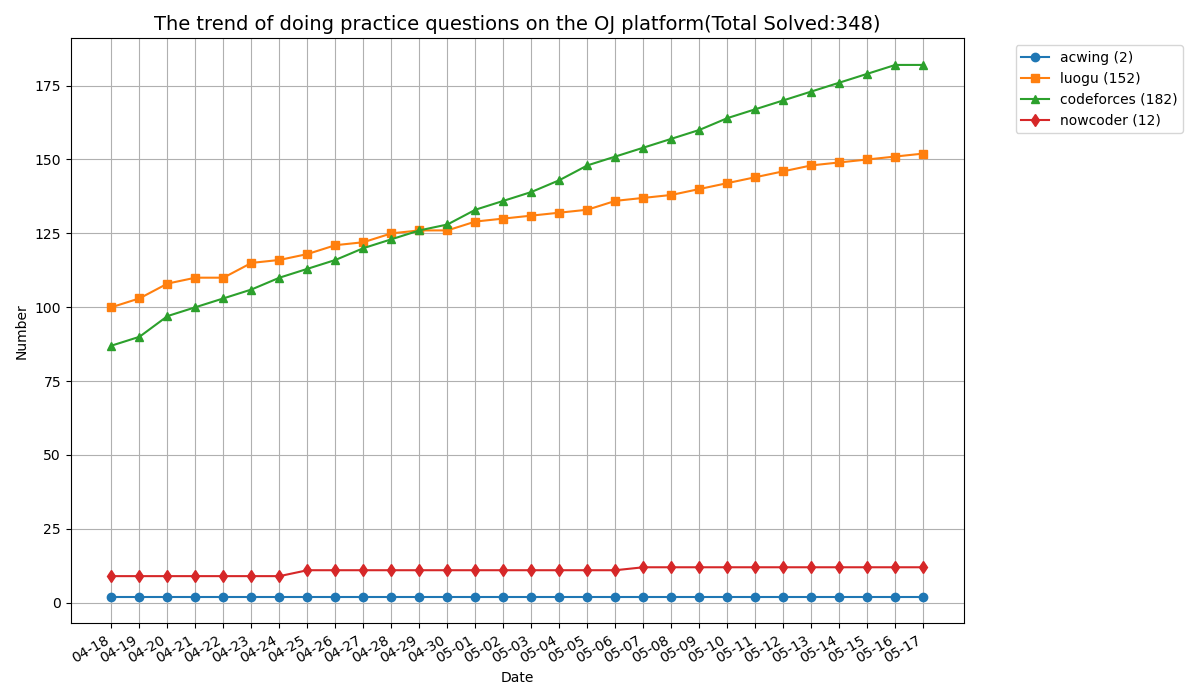
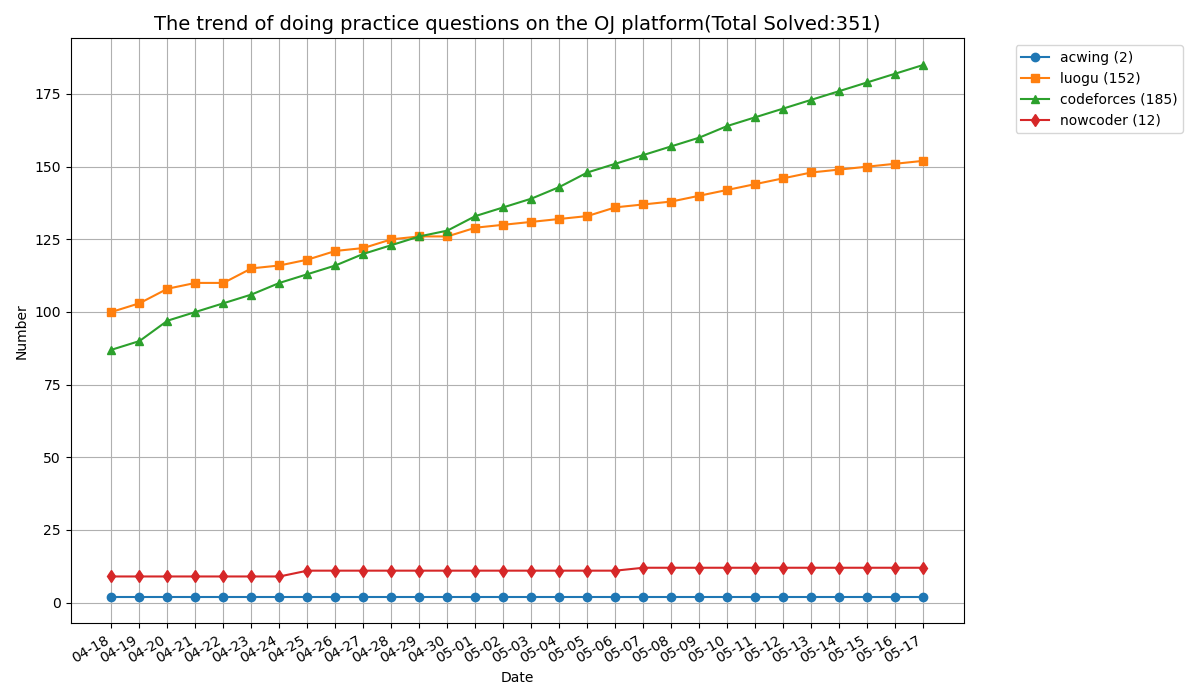
update

diff --git a/codeforces/492B/main.cpp b/codeforces/492B/main.cpp
@@ -1,0 +1,71 @@
+#include <bits/stdc++.h>
+using namespace std;
+
+#define ALL(x) (x).begin(), (x).end()
+#define MAXV(a, l, r) *std::max_element((a).begin() + (l), (a).begin() + (r))
+#define MINV(a, l, r) *std::min_element((a).begin() + (l), (a).begin() + (r))
+
+using ll = long long int;
+using ull = unsigned long long int;
+using PII = pair<int, int>;
+
+#define DEBUG
+#ifdef DEBUG
+template <typename Container>
+void PrintCon(const Container &cont)
+{
+    std::cout << "{ ";
+    if (!cont.empty())
+    {
+        auto it = cont.begin();
+        std::cout << "\033[33m" << *it++ << "\033[0m";
+        for (; it != cont.end(); ++it)
+            std::cout << " | " << "\033[33m" << *it << "\033[0m";
+    }
+    std::cout << " }" << std::endl;
+}
+
+template <typename... Args>
+void LOG(Args &&...values)
+{
+    ((std::cout << "\033[33m" << std::forward<Args>(values) << "\033[0m" << " "), ...);
+    std::cout << std::endl;
+}
+
+#else
+
+template <typename... Args>
+void LOG(Args &...args);
+template <typename Container>
+void PrintCon(const Container &cont);
+
+#endif
+
+int main()
+{
+    ios::sync_with_stdio(false);
+    cin.tie(nullptr);
+    ll n, l;
+    cin >> n >> l;
+    vector<double> a(n);
+    for (int i = 0; i < n; i++)
+    {
+        cin >> a[i];
+    }
+    sort(ALL(a));
+    double mx = numeric_limits<double>::min();
+    if (a[0] != 0)
+    {
+        mx = max(mx, a[0]);
+    }
+    if (a[n - 1] != l)
+    {
+        mx = max(mx, l-a[n - 1]);
+    }
+    for (int i = 0; i < n-1; i++)
+    {
+        mx = max(mx, (a[i + 1] - a[i]) / 2);
+    }
+    cout << fixed << setprecision(10) << mx << endl;
+    return 0;
+}

diff --git a/codeforces/1352C/main.cpp b/codeforces/1352C/main.cpp
@@ -1,0 +1,74 @@
+#include <bits/stdc++.h>
+using namespace std;
+
+#define ALL(x) (x).begin(), (x).end()
+#define MAXV(a, l, r) *std::max_element((a).begin() + (l), (a).begin() + (r))
+#define MINV(a, l, r) *std::min_element((a).begin() + (l), (a).begin() + (r))
+
+using ll = long long int;
+using ull = unsigned long long int;
+using PII = pair<int, int>;
+
+#define DEBUG
+
+#ifdef DEBUG
+template <typename Container>
+void PrintCon(const Container &cont)
+{
+    std::cout << "{ ";
+    if (!cont.empty())
+    {
+        auto it = cont.begin();
+        std::cout << "\033[33m" << *it++ << "\033[0m";
+        for (; it != cont.end(); ++it)
+            std::cout << " | " << "\033[33m" << *it << "\033[0m";
+    }
+    std::cout << " }" << std::endl;
+}
+
+template <typename... Args>
+void LOG(Args &&...values)
+{
+    ((std::cout << "\033[33m" << std::forward<Args>(values) << "\033[0m" << " "), ...);
+    std::cout << std::endl;
+}
+#else
+template <typename... Args>
+void LOG(Args &...args);
+
+template <typename Container>
+void PrintCon(const Container &cont);
+#endif
+
+void solve()
+{
+    int n, k;
+    cin >> n >> k;
+    int ans;
+    if (k % (n - 1) != 0)
+    {
+        ans = k / (n - 1) + k;
+        cout << ans << endl;
+        return;
+    }
+    else
+    {
+        ans = k / (n - 1) * n - 1;
+        cout << ans << endl;
+        return;
+    }
+}
+
+int main()
+{
+    ios::sync_with_stdio(false);
+    cin.tie(nullptr);
+    int t;
+    cin >> t;
+    while (t--)
+    {
+        solve();
+    }
+
+    return 0;
+}

diff --git a/codeforces/Con1024vp/A/main.cpp b/codeforces/Con1024vp/A/main.cpp
@@ -1,0 +1,69 @@
+#include <bits/stdc++.h>
+using namespace std;
+
+#define ALL(x) (x).begin(), (x).end()
+#define MAXV(a, l, r) *std::max_element((a).begin() + (l), (a).begin() + (r))
+#define MINV(a, l, r) *std::min_element((a).begin() + (l), (a).begin() + (r))
+
+using ll = long long int;
+using ull = unsigned long long int;
+using PII = pair<int, int>;
+
+#define DEBUG
+
+#ifdef DEBUG
+template <typename Container>
+void PrintCon(const Container &cont)
+{
+    std::cout << "{ ";
+    if (!cont.empty())
+    {
+        auto it = cont.begin();
+        std::cout << "\033[33m" << *it++ << "\033[0m";
+        for (; it != cont.end(); ++it)
+            std::cout << " | " << "\033[33m" << *it << "\033[0m";
+    }
+    std::cout << " }" << std::endl;
+}
+
+template <typename... Args>
+void LOG(Args &&...values)
+{
+    ((std::cout << "\033[33m" << std::forward<Args>(values) << "\033[0m" << " "), ...);
+    std::cout << std::endl;
+}
+#else
+template <typename... Args>
+void LOG(Args &...args);
+
+template <typename Container>
+void PrintCon(const Container &cont);
+#endif
+
+void solve()
+{
+    int n, m, p, q;
+    cin >> n >> m >> p >> q;
+    if (n % p == 0 && q * (n / p) != m)
+    {
+        cout << "NO" << endl;
+    }
+    else
+    {
+        cout << "YES" << endl;
+    }
+}
+
+int main()
+{
+    ios::sync_with_stdio(false);
+    cin.tie(nullptr);
+    int t;
+    cin >> t;
+    while (t--)
+    {
+        solve();
+    }
+
+    return 0;
+}
